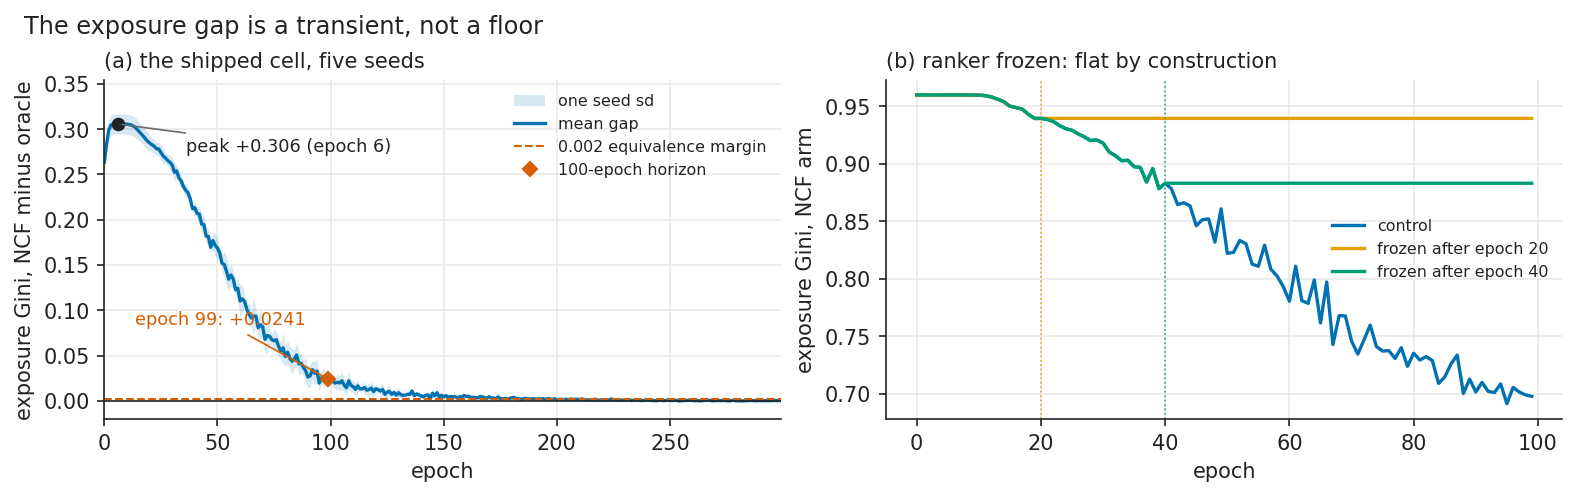
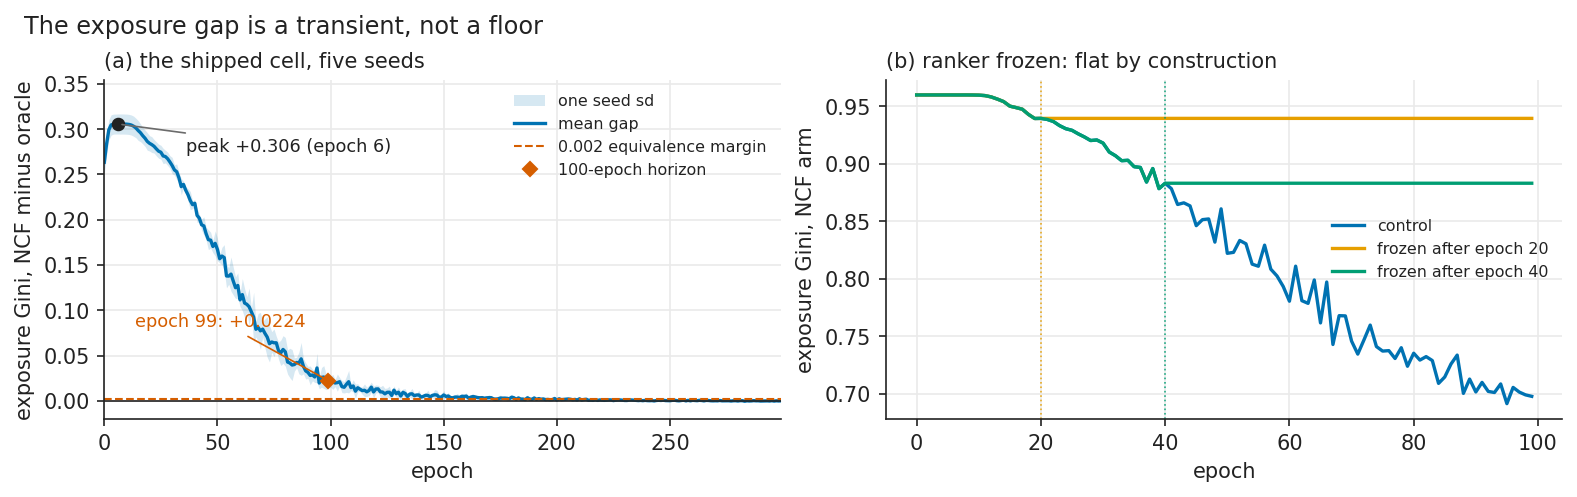
figure 1 reads the reproducible series, not the archival one
The central figure was still drawn from long_horizon/, which does not regenerate.
Redrawn from long_horizon_1t; the structural claims in its caption (peak at epoch
6, tail inside the 0.002 margin) hold on both series.

Changed region(s): [[0.0621, 0.4829, 0.3107, 0.8149]]

diff --git a/src/python/figures.py b/src/python/figures.py
@@ -1099,10 +1099,13 @@ def gap_over_horizon(
     so the arm is constant by construction. That is a limitation stated in the
     picture rather than only in the prose.
 
-    Sources: ``data/processed/rigor/long_horizon_gap_series.csv`` for (a), and
-    ``data/processed/rigor/latefreeze/`` for (b) when present.
+    Sources: ``data/processed/rigor/long_horizon_1t/long_horizon_gap_series.csv``
+    for (a) — the regenerated series, because the committed ``long_horizon/``
+    cannot be reproduced from this code at any thread count
+    (``docs/REVIEW_RESPONSE.md`` A3) — and ``data/processed/rigor/latefreeze/``
+    for (b) when present.
     """
-    series = _read(data_dir, "rigor", "long_horizon_gap_series.csv")
+    series = _read(data_dir, "rigor", "long_horizon_1t", "long_horizon_gap_series.csv")
     x = series["epoch"].to_numpy(dtype=int)
     mean = series["gap_mean"].to_numpy(dtype=float)
     sd = series["gap_sd"].to_numpy(dtype=float)
